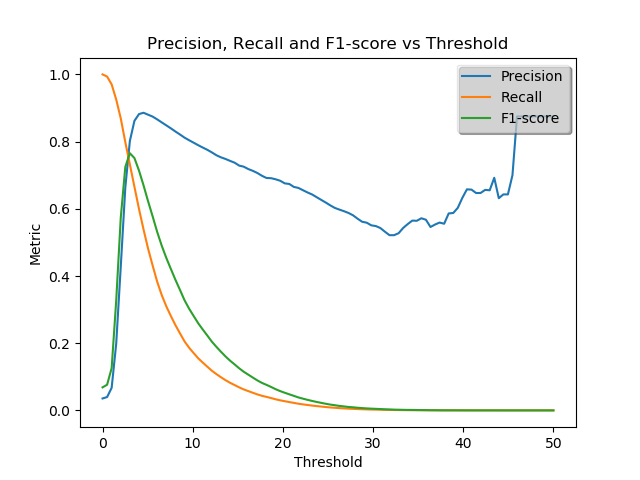
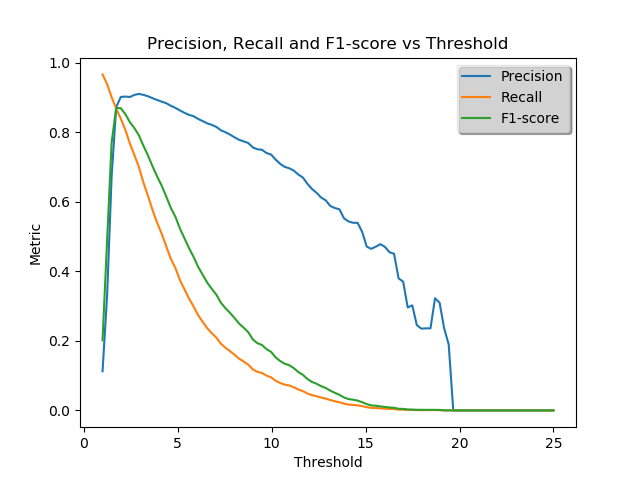
morphological filtering for HIGHWAY SEQUENCE

diff --git a/video_surveillance.py b/video_surveillance.py
@@ -354,11 +354,15 @@ def foreground_estimation(cf):
                             foreground = foreground_improving.image_opening(foreground, cf.opening_strel, cf.opening_strel_size)
 
                             foreground = foreground_improving.image_closing(foreground, cf.closing_strel, cf.closing_strel_size)
-                        elif  cf.dataset_name == 'fall':
+                        elif cf.dataset_name == 'fall':
                             pass
 
                         elif cf.dataset_name == 'highway':
-                            pass
+                            foreground = foreground_improving.image_opening(foreground, cf.opening_strel,
+                                                                            cf.opening_strel_size)
+                            foreground = foreground_improving.image_closing(foreground, cf.closing_strel,
+                                                                            cf.closing_strel_size)
+
 
                     foreground = np.array(foreground, dtype='uint8')
                     tp_temp, fp_temp, tn_temp, fn_temp = seg_metrics.evaluate_single_image(foreground,
@@ -422,8 +426,10 @@ def foreground_estimation(cf):
                             pass
 
                         elif cf.dataset_name == 'highway':
-                            pass
-
+                            foreground = foreground_improving.image_opening(foreground, cf.opening_strel,
+                                                                            cf.opening_strel_size)
+                            foreground = foreground_improving.image_closing(foreground, cf.closing_strel,
+                                                                            cf.closing_strel_size)
 
                     fore = np.array(foreground, dtype='uint8') * 255
                     image_name = os.path.basename(image)

diff --git a/config/highway_background.py b/config/highway_background.py
@@ -19,7 +19,7 @@ modelling_method              = 'adaptive'      # adaptive, non-adaptive
 color_images                  = True            # Use RGB, HSV color channels
 color_space                   = "RGB"           # RGB, HSV
 evaluate_foreground           = True
-evaluate_alpha_range          = [0, 50]     # range of alpha values
+evaluate_alpha_range          = [1, 25]     # range of alpha values
 evaluate_alpha_values         = 100         # number of alpha values to evaluate
 evaluate_rho_range            = [0, 1]      # range of rho values
 evaluate_rho_values           = 20          # number of rho values to evaluate
@@ -32,13 +32,13 @@ AUC_area_filtering            = False		 # Plot AUC vs P pixels
 P_pixels_range                = [0, 1000]    # range of P pixels
 P_pixels_values               = 40
 
-task_name                     = 'task1'      # else task1, task2
+task_name                     = 'task3'      # else task1, task2
 opening_strel                 = 'square'
 opening_strel_size            = 5
 closing_strel                 = 'diamond'
-closing_strel_size            = 10
-area_filtering                = False
-area_filtering_P              = 128
+closing_strel_size            = 3
+area_filtering                = True
+area_filtering_P              = 105
 
 # Save results
 save_results                 = True        # Save Log file

diff --git a/config/traffic_background.py b/config/traffic_background.py
@@ -19,8 +19,8 @@ modelling_method              = 'adaptive'      # adaptive, non-adaptive
 color_images                  = True            # Use RGB, HSV color channels
 color_space                   = "RGB"           # RGB, HSV
 evaluate_foreground           = True
-evaluate_alpha_range          = [0, 10]     # range of alpha values
-evaluate_alpha_values         = 40          # number of alpha values to evaluate
+evaluate_alpha_range          = [0, 25]     # range of alpha values
+evaluate_alpha_values         = 100          # number of alpha values to evaluate
 evaluate_rho_range            = [0, 1]      # range of rho values
 evaluate_rho_values           = 20          # number of rho values to evaluate
 find_best_parameters          = False

diff --git a/tools/foreground_improving.py b/tools/foreground_improving.py
@@ -16,7 +16,7 @@ EPSILON = 1e-8
 
 def image_opening(image, strel='rectangle', size_strel=3):
     if strel == 'rectangle':
-        elem = morphology.rectangle(size_strel / 2, size_strel)
+        elem = morphology.rectangle(size_strel // 2, size_strel)
     elif strel == 'square':
         elem = morphology.square(size_strel)
     elif strel == 'diagonal':
@@ -25,7 +25,8 @@ def image_opening(image, strel='rectangle', size_strel=3):
         elem = np.fliplr(elem)
     elif strel == 'diamond':
         elem = morphology.diamond(size_strel)
-
+    elif strel == 'horizontal_line':
+        elem = morphology.rectangle(1, size_strel)
     output_image = morphology.opening(image, elem)
 
     return output_image
